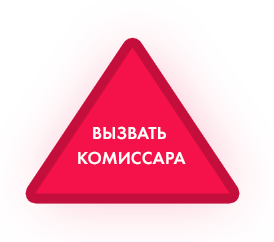
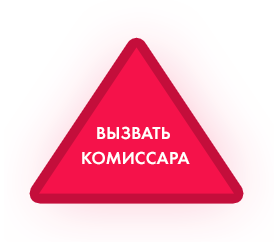
header mobile update

Changed region(s): [[0.0876, 0.1446, 0.9051, 0.8678], [0.2628, 0.6074, 0.7007, 0.6942]]

diff --git a/autoexpert92.ru/index.html b/autoexpert92.ru/index.html
@@ -56,7 +56,7 @@
                                 </div>
                                 <div class="col-auto"><img src="./images/telmob.png" alt=""></div>
                             </div>
-                            <div class="col-auto" align="center">
+                            <div class="col-auto pt-2" align="center">
                                 <r class="number">8 978 1000 792</r><br>
                                 г. Севастополь
                             </div>
@@ -67,24 +67,24 @@
                             <h1>Прибытие аварийного комиссара на <r>ДТП</r> <br> в течение <r>20 минут</r></h1>
                         </div>
 
-                        <div class="d-flex flex-column flex-md-row order-3 order-md-1 col-md-6 mt-3">
-                            <div class="d-flex col-md-6 p-0 align-items-center">
+                        <div class="d-flex flex-column flex-md-row order-3 order-md-1 col-md-6 mt-3 p-0">
+                            <div class="d-flex col-auto col-md-6 pt-2 p-md-0 align-items-center align-self-center align-self-center">
                                 <img src="./images/icon_outline1.png" alt="">
                                 <div class="col">
-                                    Страховые Выплаты в течение 3-х дней
+                                    Страховые Выплаты <br> в течение 3-х дней
                                 </div>
                             </div>
-                            <div class="d-flex col-md-6 p-0 align-items-center">
+                            <div class="d-flex col-auto col-md-6 pt-2 p-md-0 align-items-center align-self-center align-self-center">
                                 <img src="./images/icon_outline2.png" alt="">
                                 <div class="col">
-                                    Без замудренных доверенностей
+                                    Без замудренных <br> доверенностей
                                 </div>
                             </div>
                         </div>
                         <div class="consultation col-7 col-md-4 order-1 order-md-2 text-center text-md-left mx-auto mx-md-0">
                             Позвоните нам и мы проконсультируем <br> вас <r>бесплатно</r>!
                         </div>
-                        <div class="order-2 order-md-3 col-md-4 pl-md-0 " align="center">
+                        <div class="order-2 order-md-3 col-md-4 p-0 pl-md-0 " align="center">
                             <a href="#" class="button"></a>
                         </div>
                     </div>

diff --git a/autoexpert92.ru/css/responsive.css b/autoexpert92.ru/css/responsive.css
@@ -1,15 +1,33 @@
 /* Экстрамалые девайсы («портретные тел*/
 @media (max-width: 575.98px) {
+    html,body {
+        font-size: 16px;
+    }
+
     h1 {
         font-family: Raleway;
         font-weight: 900;
-        font-size: 24px;
+        font-size: 28px;
         color: #f5f5f5;
+    }
+
+    .header {
+        height: 800px;
+
     }
 
     .container {
         padding-left: 20px;
         padding-right: 20px;
+    }
+
+    .number {
+        margin-top: 233px;
+        font-size: 20px;
+    }
+
+    .consultation {
+        font-size: 17px;
     }
 
     .button, .button:hover {
@@ -34,6 +52,14 @@
         background-size: contain;
         height: 100%;
     }
+
+    .header-shadow {
+        background: url(../images/bg1.png) center no-repeat;
+        background-size: cover;
+        width: 100%;
+        height: 100%;
+    }
+
 }
 
 /* Большие девайсы (десктопы, >= 992px)*/

diff --git a/autoexpert92.ru/css/style.css b/autoexpert92.ru/css/style.css
@@ -24,13 +24,6 @@ r {
     height: 890px;
 }
 
-.header-shadow {
-    background: url(../images/bg1.png) center no-repeat;
-    background-size: cover;
-    width: 100%;
-    height: 100%;
-}
-
 .logo {
     font-family: Raleway;
     font-size: 18px;
@@ -81,6 +74,8 @@ r {
 }
 
 .button:hover {
+    height: 242px;
+    width: 274px;
     background: url(../images/btn_hover.png) right 0 no-repeat;
-
+    background-size: cover;
 }
